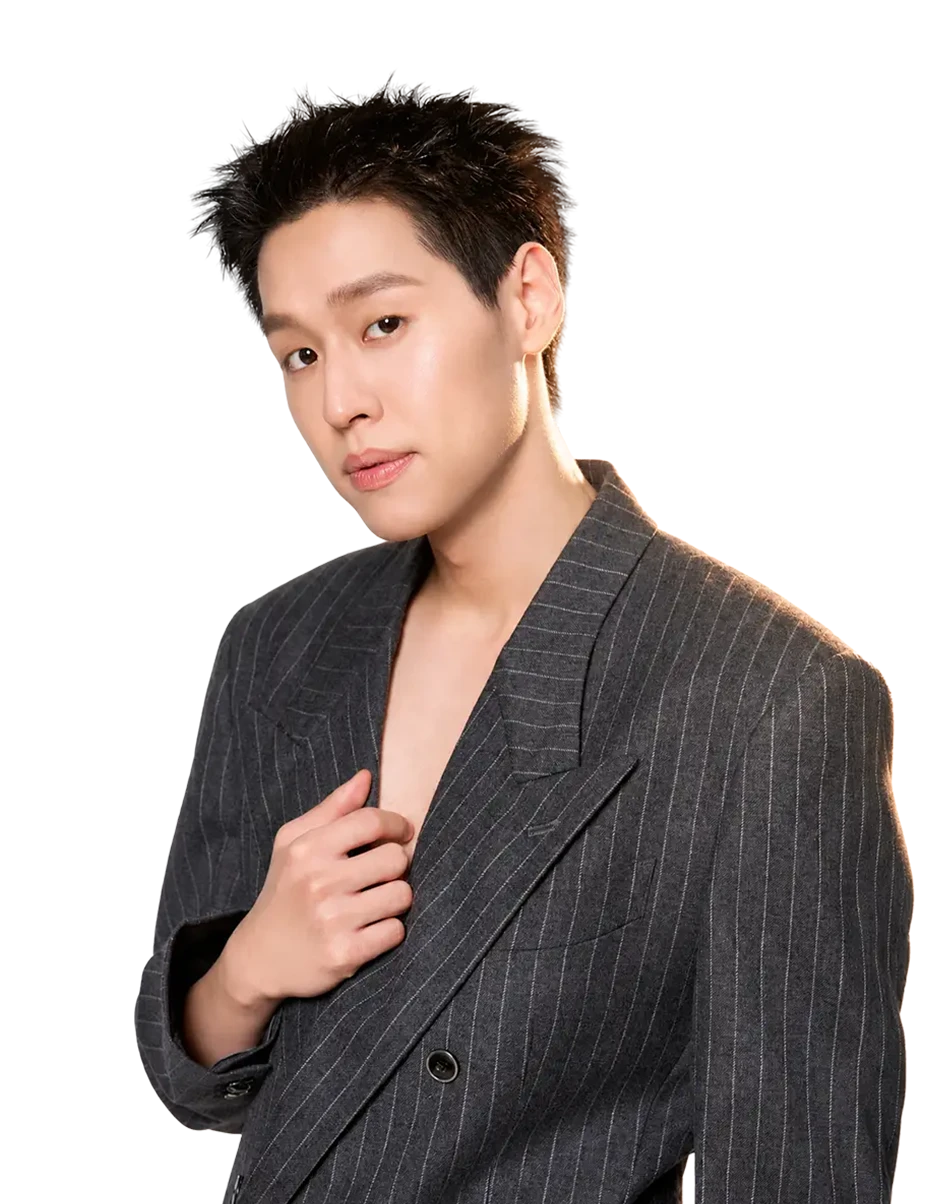
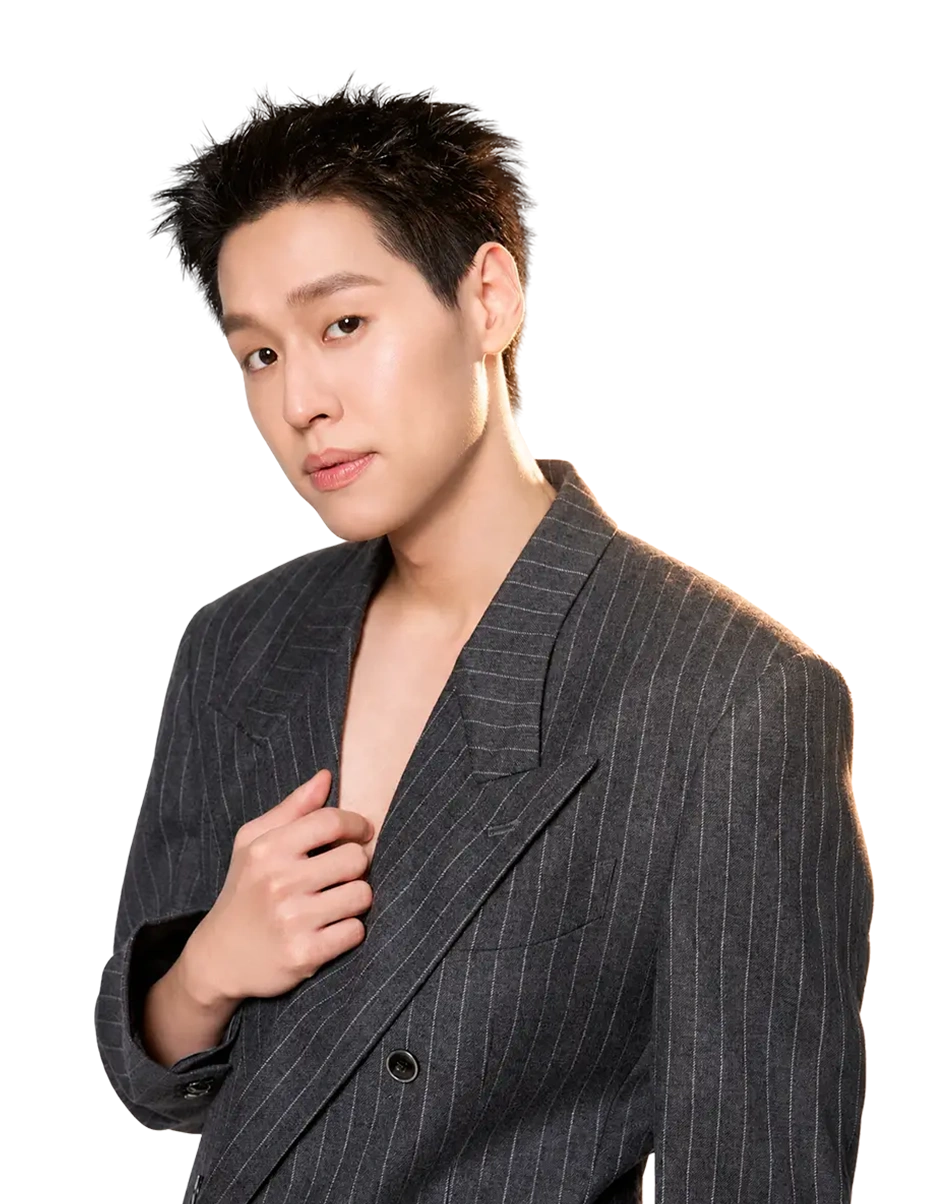
Add Udomsak & Jirayus to Day 2 agenda and speakers, update speaker photos

Changed region(s): [[0.0938, 0.0615, 1.0, 1.0], [0.3125, 0.5224, 0.3438, 0.5532]]

diff --git a/index.html b/index.html
@@ -817,10 +817,10 @@
                                             <td>
                                                 <p class="agenda__session-title">WEALTH, AFTER TAX</p>
                                                 <p class="agenda__session-summary">หาแทบตาย เงินต้องไม่หายไปกับภาษี</p>
-                                                <p class="agenda__session-speaker">To Be Determined</p>
+                                                <p class="agenda__session-speaker">ผศ.ดร.อุดมศักดิ์ รักวงษ์วาน</p>
                                             </td>
                                             <td class="agenda__speakers">
-                                                <span class="agenda__speaker-frame" aria-label="พื้นที่รูปโปรไฟล์วิทยากร"><span class="agenda__speaker-photo"><img src="images/agenda/profile-empty.webp" width="928" height="1152" loading="lazy" decoding="async" alt=""></span></span>
+                                                <span class="agenda__speaker-frame" aria-label="พื้นที่รูปโปรไฟล์วิทยากรคนที่ 1"><span class="agenda__speaker-photo"><img src="images/agenda/day-2/D2-อุดมศักดิ์-รักวงษ์วาน.webp" width="240" height="240" loading="lazy" decoding="async" alt="ผศ.ดร.อุดมศักดิ์ รักวงษ์วาน"></span></span>
                                             </td>
                                         </tr>
                                         <tr>
@@ -872,9 +872,11 @@
                                             <td>
                                                 <p class="agenda__session-title">THE 100-YEAR PLAN</p>
                                                 <p class="agenda__session-summary">ถ้าอยู่ถึง 100 ปี วันนี้ต้องมีเงินเท่าไร ?</p>
-                                                <p class="agenda__session-speaker">To Be Determined</p>
+                                                <p class="agenda__session-speaker">คุณจิรายุส ทรัพย์ศรีโสภา</p>
                                             </td>
-                                            <td class="agenda__speakers"><span class="agenda__speaker-frame" aria-label="พื้นที่รูปโปรไฟล์วิทยากร"><span class="agenda__speaker-photo"><img src="images/agenda/profile-empty.webp" width="928" height="1152" loading="lazy" decoding="async" alt=""></span></span></td>
+                                            <td class="agenda__speakers">
+                                                <span class="agenda__speaker-frame" aria-label="พื้นที่รูปโปรไฟล์วิทยากรคนที่ 1"><span class="agenda__speaker-photo"><img src="images/agenda/day-2/D2-ท๊อป-จิรายุส.webp" width="240" height="240" loading="lazy" decoding="async" alt="คุณจิรายุส ทรัพย์ศรีโสภา"></span></span>
+                                            </td>
                                         </tr>
                                         <tr>
                                             <th scope="row"><time>16:45 – 17:25</time></th>
@@ -2002,7 +2004,7 @@
     <script src="js/action-button.js"></script>
     <script src="js/ticket-price-selector.js?v=3"></script>
     <script src="js/agenda-tabs.js?v=30"></script>
-    <script src="js/speaker-directory.js?v=36"></script>
+    <script src="js/speaker-directory.js?v=37"></script>
     <script src="js/moderator-directory.js?v=1"></script>
     <script src="js/expectation-counter.js?v=2"></script>
     <script src="js/floor-plan-reveal.js?v=1"></script>

diff --git a/js/speaker-directory.js b/js/speaker-directory.js
@@ -108,6 +108,16 @@
                 role: 'Property Developer & Collector',
                 image: 'day-2/D2-กฤษฎิ์-ชวาลรัตน์.webp',
             },
+            {
+                name: 'ผศ.ดร.อุดมศักดิ์ รักวงษ์วาน',
+                role: 'อาจารย์ด้านคณิตศาสตร์การเงิน มหาวิทยาลัยเกษตรศาสตร์ และผู้ก่อตั้ง Altplus Group',
+                image: 'day-2/D2-อุดมศักดิ์-รักวงษ์วาน.webp',
+            },
+            {
+                name: 'คุณจิรายุส ทรัพย์ศรีโสภา',
+                role: 'ผู้ก่อตั้งกลุ่มบริษัท บิทคับ แคปปิตอล กรุ๊ป <br class="d-none d-xxl-block">โฮลดิ้งส์ จำกัด',
+                image: 'day-2/D2-ท๊อป-จิรายุส.webp',
+            },
         ],
     };
 
